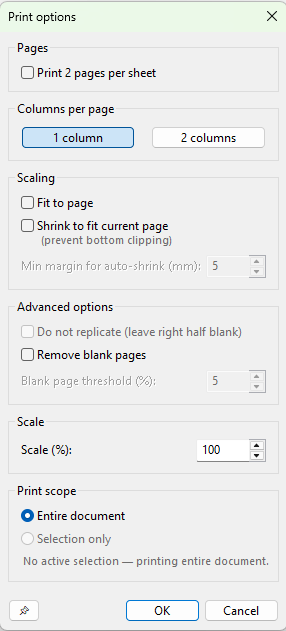
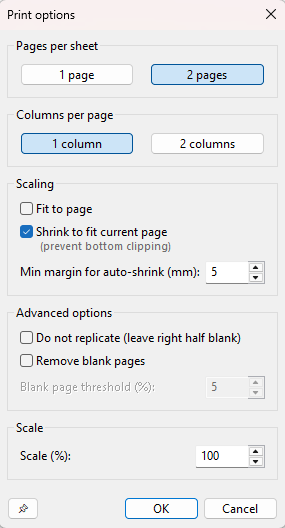
v5.1.3

diff --git a/src/songpressPlusPlus/PrintDialog.py b/src/songpressPlusPlus/PrintDialog.py
@@ -240,95 +240,168 @@ class SongpressPrintout(wx.Printout):
                 self._scale_y = min(self._scale_y, self._scale_y * fit)
 
         # ── fit_to_page / shrink_to_fit ───────────────────────────────
+        #
+        # Approccio diretto: rendiamo tutti i segmenti su un DC temporaneo
+        # con la scala corrente, misuriamo l'altezza reale di ciascuno, e
+        # ricaviamo il fattore di scala / la riduzione di margine necessari
+        # senza approssimazioni su row_h.
+        #
+        # Grandezze usate in questo blocco:
+        #   px_per_page  = altezza utile in pixel-schermo (unità del Renderer)
+        #                = usable_h [device units] / self._scale_y
+        #   seg_h_px[]   = altezze reali di ciascun segmento in pixel-schermo
+        #   overflow_px  = quanto sporge l'ultimo segmento oltre la sua pagina
+        #                  (sempre nell'ultima pagina di quel segmento)
+        # ─────────────────────────────────────────────────────────────────────
+
         mdc2 = wx.MemoryDC(wx.Bitmap(1, 1))
 
-        total_h_px = 0  # accumula su tutti i segmenti
+        # Renderizza una volta sola tutti i segmenti e memorizza le altezze.
+        seg_h_px = []
         for seg_idx, seg_text in enumerate(self._segments):
             r = self._make_renderer()
             vc, lc, cc = self._seg_verse_start.get(seg_idx, (0, 0, 0))
             r.initialVerseCount  = vc
             r.initialLabelCount  = lc
             r.initialChorusCount = cc
-            sw, sh = r.Render(seg_text, mdc2)
-            total_h_px += sh  # somma l'altezza di ciascun segmento
+            _, sh = r.Render(seg_text, mdc2)
+            seg_h_px.append(max(1, sh))
+
+        total_h_px = sum(seg_h_px)
 
         if getattr(self.frame_obj, '_fit_to_page', False):
+            # Scala font per far stare tutto il contenuto in una sola pagina.
             if total_h_px * self._scale_y > usable_h:
                 f = usable_h / (total_h_px * self._scale_y)
                 self._scale_x *= f
                 self._scale_y *= f
+                # Aggiorna le altezze scalate (non i px, che sono invarianti
+                # rispetto al renderer, ma serviranno corretti sotto).
+                # Non serve: seg_h_px rimane in px-schermo; scale è cambiata.
 
         if getattr(self.frame_obj, '_shrink_to_fit', False):
-            min_margin_mm  = float(getattr(self.frame_obj, '_min_margin_shrink', 5))
-            min_margin_du  = self._mm_to_du(min_margin_mm, ppi_y)
-            # Clamp a 0: se il margine corrente è già sotto il minimo,
-            # non c'è margine riducibile (evita valori negativi che farebbero
-            # saltare il branch sbagliato o scalare il font inutilmente).
-            reducible_du   = max(0, min(mt, mb) - min_margin_du)
+            # ── Parametri di margine riducibile ───────────────────────────
+            min_margin_mm = float(getattr(self.frame_obj, '_min_margin_shrink', 5))
+            min_margin_du = self._mm_to_du(min_margin_mm, ppi_y)
 
-            r_check = self._make_renderer()
-            vc, lc, cc = self._seg_verse_start.get(0, (0, 0, 0))
-            r_check.initialVerseCount  = vc
-            r_check.initialLabelCount  = lc
-            r_check.initialChorusCount = cc
-            _, sh_check = r_check.Render(
-                self._segments[0], mdc2
+            # Quanto possiamo togliere da top e bottom rispettando il minimo.
+            # Calcolato separatamente per i due margini per distribuire
+            # correttamente anche quando mt ≠ mb.
+            red_top_max = max(0, mt - min_margin_du)
+            red_bot_max = max(0, mb - min_margin_du)
+            reducible_du = red_top_max + red_bot_max   # totale disponibile
+
+            # ── Calcolo overflow per ogni segmento ────────────────────────
+            # Per ciascun segmento, l'overflow è la parte che sporge
+            # nell'ultima pagina oltre un multiplo intero di px_per_page.
+            # Se overflow == 0 il segmento chiude esatto: non serve shrink.
+            # Prendiamo il worst-case su tutti i segmenti.
+
+            px_per_page = usable_h / self._scale_y   # in px-schermo
+
+            def _overflow_px(h_px, ppp):
+                """Pixel che debordano nell'ultima pagina di un segmento."""
+                if ppp <= 0:
+                    return 0.0
+                remainder = math.fmod(h_px, ppp)
+                # fmod restituisce 0.0 se h_px è multiplo esatto di ppp
+                return remainder
+
+            # Overflow massimo tra tutti i segmenti (in px-schermo).
+            max_overflow_px = max(
+                _overflow_px(h, px_per_page) for h in seg_h_px
             )
-            row_h = max(1, sh_check // max(1, sum(
-                1 for ln in self._segments[0].splitlines() if ln.strip()
-            )))
 
-            px_per_page = usable_h / self._scale_y
+            if max_overflow_px > 0:
+                # ── Fase 1: proviamo a recuperare l'overflow riducendo i margini ──
+                #
+                # Quanti device-units aggiuntivi ci servono in altezza utile
+                # per far rientrare max_overflow_px nella pagina?
+                # Convertiamo l'overflow da px-schermo a device-units:
+                #   needed_du = max_overflow_px * self._scale_y
+                needed_du = max_overflow_px * self._scale_y
 
-            def _best_ppp(ppp):
-                n = max(1, int(math.floor(ppp / row_h)))
-                return n * row_h
-
-            def _apply_margins(red_du):
-                new_usable = usable_h + red_du
-                new_ppp    = new_usable / self._scale_y
-                return new_usable, _best_ppp(new_ppp)
-
-            ideal_ppp = _best_ppp(px_per_page)
-            gap       = px_per_page - ideal_ppp
-
-            margin_reduced_du = 0  # quanti du sono stati sottratti ai margini
-
-            if gap > 0:
-                gap_du = gap * self._scale_y
-                if gap_du <= reducible_du:
-                    margin_reduced_du = gap_du
-                    usable_h, px_per_page = _apply_margins(gap_du)
-                    px_per_page = _best_ppp(px_per_page)
-                else:
+                if needed_du <= reducible_du:
+                    # I margini bastano: li riduciamo proporzionalmente.
+                    # Distribuiamo needed_du tra top e bottom in proporzione
+                    # alla loro riducibilità, così rispettiamo entrambi i minimi.
                     if reducible_du > 0:
-                        margin_reduced_du = reducible_du
-                        usable_h, px_per_page = _apply_margins(reducible_du)
-                        ideal_ppp = _best_ppp(px_per_page)
-                        gap       = px_per_page - ideal_ppp
-                        gap_du    = gap * self._scale_y
+                        ratio       = needed_du / reducible_du
+                        red_top_du  = int(math.ceil(red_top_max * ratio))
+                        red_bot_du  = int(math.floor(red_bot_max * ratio))
+                    else:
+                        red_top_du = red_bot_du = 0
 
-                    if gap > 0:
-                        n_rows_now  = max(1, int(math.floor(px_per_page / row_h)))
-                        target_ppp  = n_rows_now * row_h
-                        f           = usable_h / (self._scale_y * target_ppp)
-                        if f < 1.0:
-                            self._scale_x  *= f
-                            self._scale_y  *= f
-                            px_per_page     = usable_h / self._scale_y
-                            px_per_page     = _best_ppp(px_per_page)
+                    mt -= red_top_du
+                    mb -= red_bot_du
+                    usable_h += red_top_du + red_bot_du
+                    self._margin_du = (ml, mt, mr, mb)
 
-            # Se i margini sono stati ridotti virtualmente, aggiorna _margin_du
-            # in modo che il clipping in _render_logical_page usi la stessa
-            # altezza utile calcolata qui (altrimenti SetClippingRegion taglia
-            # il testo che l'algoritmo ha legittimamente incluso nell'area).
-            if margin_reduced_du > 0:
-                half = margin_reduced_du / 2.0
-                new_mt = max(0, mt - int(math.ceil(half)))
-                new_mb = max(0, mb - int(math.floor(half)))
-                mt = new_mt
-                mb = new_mb
-                self._margin_du = (ml, mt, mr, mb)
+                else:
+                    # ── Fase 2: margini non bastano → riduciamo anche il font ──
+                    #
+                    # Prima sfruttiamo tutto il margine disponibile…
+                    mt       -= red_top_max
+                    mb       -= red_bot_max
+                    usable_h += reducible_du
+                    self._margin_du = (ml, mt, mr, mb)
+
+                    # …poi calcoliamo il fattore di scala per far rientrare
+                    # l'overflow residuo nella pagina aggiornata.
+                    #
+                    # Per ogni segmento vogliamo:
+                    #   h_px * scale_y_new  ≡   0  (mod usable_h_new)
+                    # ovvero che h_px * scale_y_new sia un multiplo di usable_h_new.
+                    # La condizione necessaria e sufficiente è che per il segmento
+                    # più "scomodo" il numero di pagine che occupa con la nuova
+                    # scala sia un intero.
+                    #
+                    # Approccio: cerchiamo il fattore f < 1 tale che, per ogni
+                    # segmento, ceil(h_px * f * scale_y / usable_h) * usable_h
+                    # sia >= h_px * f * scale_y  (ovvero nessun overflow).
+                    # La soluzione conservativa più semplice e stabile:
+                    # scaliamo in modo che l'overflow peggiore diventi 0,
+                    # ovvero che ogni segmento occupi un numero intero di pagine.
+                    #
+                    # Per il segmento con overflow residuo:
+                    #   n_pages = ceil(h_px * scale_y / usable_h)
+                    #   target  = n_pages * usable_h          [in du]
+                    #   f       = target / (h_px * scale_y)   [≥ 1 se già ok, ≤ 1 se va ridotto]
+                    # Prendiamo il minimo f tra tutti i segmenti (quello che
+                    # richiede la riduzione maggiore).
+
+                    f_min = 1.0
+                    for h_px in seg_h_px:
+                        h_du = h_px * self._scale_y
+                        n_pages = max(1, math.ceil(h_du / usable_h))
+                        target_du = n_pages * usable_h
+                        if h_du > target_du:
+                            # non dovrebbe mai accadere per costruzione di ceil,
+                            # ma per robustezza:
+                            f_candidate = target_du / h_du
+                        elif h_du > 0:
+                            # Vogliamo f tale che h_px * scale_y * f <= target_du
+                            # con n_pages invariato (non vogliamo aggiungere pagine).
+                            # f_candidate = target_du / h_du  ← sarebbe ≥ 1, non utile.
+                            # Invece cerchiamo n_pages - 1 pagine se l'overflow
+                            # è ciò che causa il problema:
+                            overflow_du = math.fmod(h_du, usable_h)
+                            if overflow_du > 0:
+                                # Riduciamo fino a far sparire l'overflow:
+                                # (h_du - overflow_du) = (n_pages-1)*usable_h
+                                # f = (n_pages-1)*usable_h / h_du
+                                f_candidate = ((n_pages - 1) * usable_h) / h_du
+                                f_candidate = max(0.5, f_candidate)  # floor di sicurezza
+                            else:
+                                f_candidate = 1.0
+                        else:
+                            f_candidate = 1.0
+
+                        f_min = min(f_min, f_candidate)
+
+                    if f_min < 1.0:
+                        self._scale_x *= f_min
+                        self._scale_y *= f_min
 
         # ── calcolo definitivo degli offsets di pagina ─────────────────
         px_per_page = usable_h / self._scale_y
@@ -496,10 +569,15 @@ class PrintOptionsDialog:
         self._outer = outer = wx.BoxSizer(wx.VERTICAL)
 
         # ── Sezione Pagine ────────────────────────────────────────────
-        box_pages = wx.StaticBoxSizer(wx.StaticBox(dlg, label=_("Pages")), wx.VERTICAL)
-        self.cb = wx.CheckBox(dlg, label=_("Print 2 pages per sheet"))
-        self.cb.SetValue(owner._two_pages_per_sheet)
-        box_pages.Add(self.cb, 0, wx.ALL, _GAP)
+        box_pages = wx.StaticBoxSizer(
+            wx.StaticBox(dlg, label=_("Pages per sheet")), wx.HORIZONTAL
+        )
+        self.rb_page1 = wx.ToggleButton(dlg, label=_("1 page"))
+        self.rb_page2 = wx.ToggleButton(dlg, label=_("2 pages"))
+        self.rb_page1.SetValue(not owner._two_pages_per_sheet)
+        self.rb_page2.SetValue(owner._two_pages_per_sheet)
+        box_pages.Add(self.rb_page1, 1, wx.EXPAND | wx.ALL, _GAP)
+        box_pages.Add(self.rb_page2, 1, wx.EXPAND | wx.ALL, _GAP)
         outer.Add(box_pages, 0, wx.EXPAND | wx.ALL, _GAP)
 
         # ── Sezione Colonne ───────────────────────────────────────────
@@ -630,15 +708,26 @@ class PrintOptionsDialog:
     # ── Bind ──────────────────────────────────────────────────────────────────
 
     def _bind_events(self):
+        self.rb_page1.Bind(wx.EVT_TOGGLEBUTTON, self._on_page1)
+        self.rb_page2.Bind(wx.EVT_TOGGLEBUTTON, self._on_page2)
         self.rb_col1.Bind(wx.EVT_TOGGLEBUTTON, self._on_col1)
         self.rb_col2.Bind(wx.EVT_TOGGLEBUTTON, self._on_col2)
         self.cb_shrink.Bind(wx.EVT_CHECKBOX, self._on_shrink_changed)
         self.cb_remove_blank.Bind(wx.EVT_CHECKBOX, self._on_remove_blank_changed)
-        self.cb.Bind(wx.EVT_CHECKBOX, self._on_two_pages_changed)
         self.btn_pin.Bind(wx.EVT_BUTTON, self._on_pin)
         self.btn_ok.Bind(wx.EVT_BUTTON, self._on_ok)
 
     # ── Handler eventi ────────────────────────────────────────────────────────
+
+    def _on_page1(self, evt):
+        self.rb_page1.SetValue(True)
+        self.rb_page2.SetValue(False)
+        self.cb_no_mirror.Enable(False)
+
+    def _on_page2(self, evt):
+        self.rb_page2.SetValue(True)
+        self.rb_page1.SetValue(False)
+        self.cb_no_mirror.Enable(True)
 
     def _on_col1(self, evt):
         self.rb_col1.SetValue(True)
@@ -660,10 +749,6 @@ class PrintOptionsDialog:
         self.spin_blank_threshold.Enable(enabled)
         evt.Skip()
 
-    def _on_two_pages_changed(self, evt):
-        self.cb_no_mirror.Enable(self.cb.GetValue())
-        evt.Skip()
-
     def _on_pin(self, evt):
         PIN_OFF = u"📌"
         PIN_ON  = u"📍"
@@ -680,7 +765,7 @@ class PrintOptionsDialog:
 
     def _apply_options(self):
         o = self.owner
-        o._two_pages_per_sheet  = self.cb.GetValue()
+        o._two_pages_per_sheet  = self.rb_page2.GetValue()
         o._columns_per_page     = 2 if self.rb_col2.GetValue() else 1
         o._fit_to_page          = self.cb_fit.GetValue()
         o._shrink_to_fit        = self.cb_shrink.GetValue()